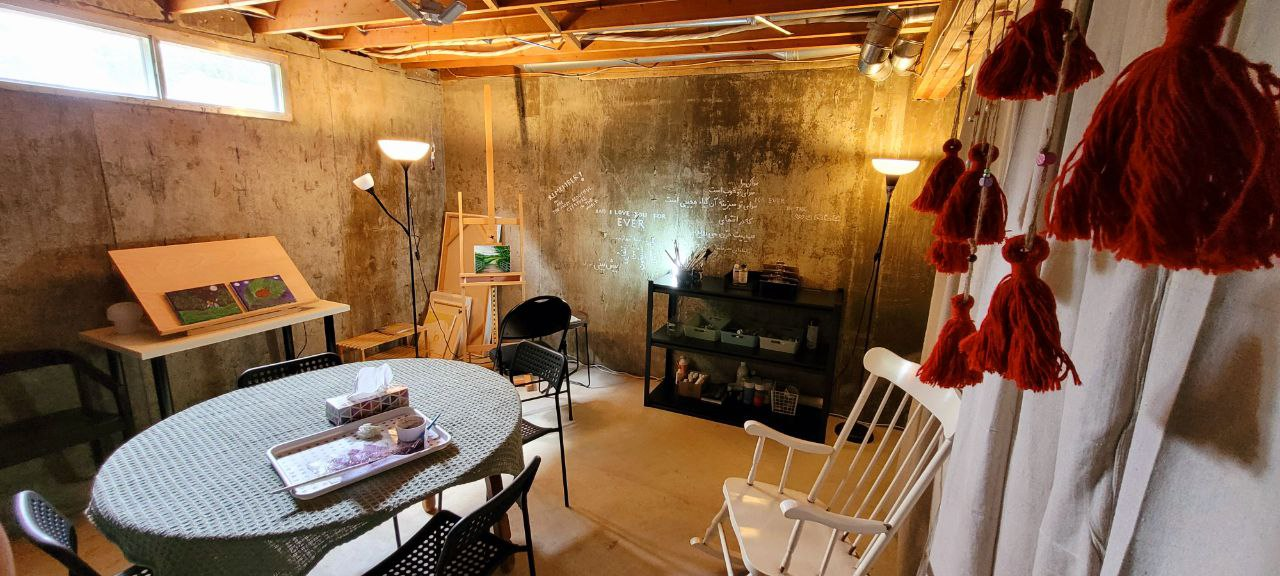
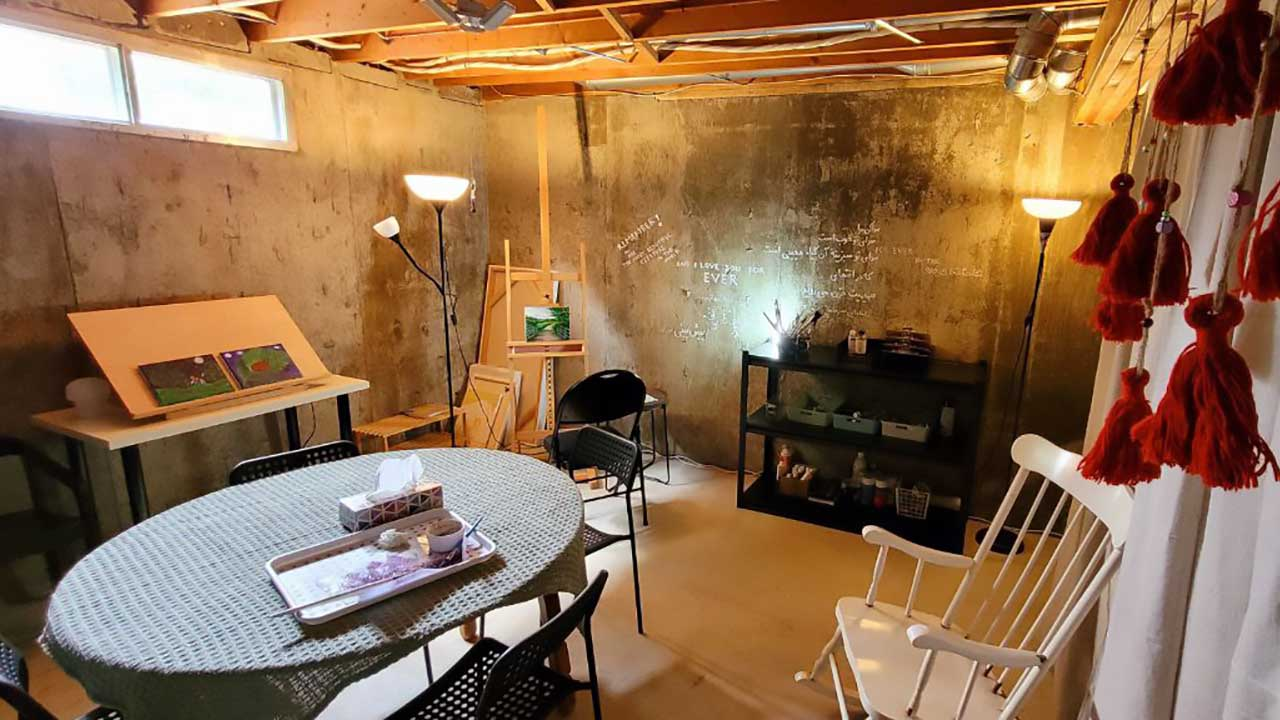
carousel-img

diff --git a/pages/workshops.html b/pages/workshops.html
@@ -193,14 +193,14 @@
               </div>
               <div class="carousel-item" data-bs-interval="8000">
                 <img
-                  src="../images/sample-1.jpg"
+                  src="../images/workshop-3.jpg"
                   class="d-block w-100 rounded-4 mx-auto"
                   alt="..."
                 />
               </div>
               <div class="carousel-item" data-bs-interval="8000">
                 <img
-                  src="../images/sample-2.jpg"
+                  src="../images/workshop-4.jpg"
                   class="d-block w-100 rounded-4 mx-auto"
                   alt="..."
                 />
